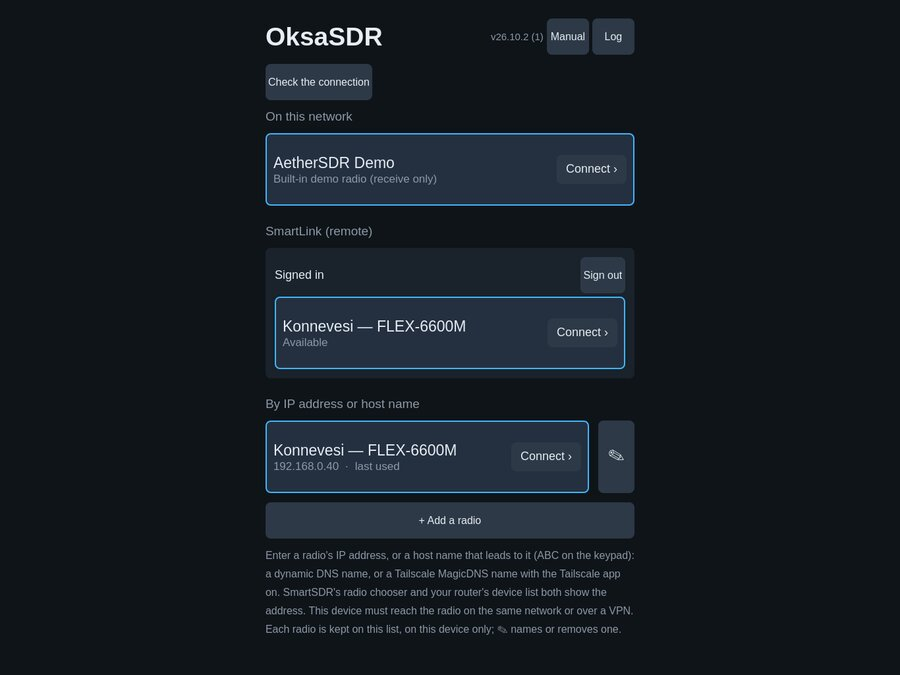
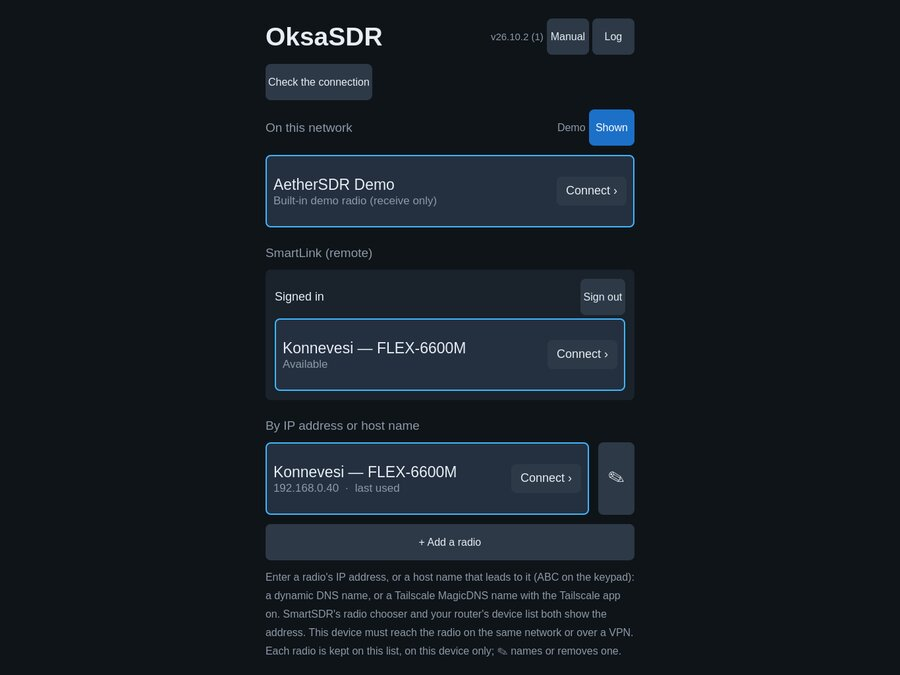
mobile: hiding the demo radio on the Connect page (56)
Demo [Shown / Hidden] on the "On this network" line hides the built-in
demo radio, remembered (MobileShowDemoRadio, Ian Gilchrist VK1HF's key,
shown by default); the heading says "Searching this network…" when only
the hidden demo is listed and wraps rather than cut on the narrowest.
Tapped Shown -> Hidden -> Shown and rendered at 440x956, 360x800 at
135 % and 1366x1024.

Notes: the SmartLink line names it (3990 characters; one older PLEASE TRY line out)
Manual: the Connect page's demo sentence, connect.jpg
Roadmap: 56 numbered after its pre-analysis, in build 164
Screenshots: connect.jpg
iOS: changed
Android: changed

Claude-Session: https://claude.ai/code/session_01KANojkzU64KoozGDbNDzRK

Changed region(s): [[0.28, 0.1556, 0.7156, 0.9956]]

diff --git a/mobile/qml/ConnectPage.qml b/mobile/qml/ConnectPage.qml
@@ -119,10 +119,32 @@ Page {
             }
 
             // ---- This network ----
-            Label {
-                text: Engine.radios.count > 0 ? qsTr("On this network") : qsTr("Searching this network…")
-                color: Theme.textDim
-                font.pixelSize: Theme.px(17)
+            // The demo radio's switch on the heading's line (Ian Gilchrist
+            // VK1HF), so hiding it adds no row.
+            RowLayout {
+                Layout.fillWidth: true
+                Label {
+                    text: Engine.lanRadioCount > 0 || (Engine.showDemoRadio && Engine.radios.count > 0)
+                          ? qsTr("On this network") : qsTr("Searching this network…")
+                    color: Theme.textDim
+                    font.pixelSize: Theme.px(17)
+                    wrapMode: Text.Wrap
+                    Layout.fillWidth: true
+                }
+                Label {
+                    text: qsTr("Demo")
+                    color: Theme.textDim
+                    font.pixelSize: Theme.px(14)
+                }
+                AppButton {
+                    objectName: "demoRadioShown"
+                    text: Engine.showDemoRadio ? qsTr("Shown") : qsTr("Hidden")
+                    checked: Engine.showDemoRadio
+                    leftPadding: 10
+                    rightPadding: 10
+                    focusPolicy: Qt.NoFocus
+                    onClicked: Engine.showDemoRadio = !Engine.showDemoRadio
+                }
             }
             Repeater {
                 model: Engine.radios
@@ -135,6 +157,7 @@ Page {
                     required property string version
                     required property string transport
                     required property bool inUse
+                    visible: transport !== "sim" || Engine.showDemoRadio
                     title: (nickname.length > 0 ? nickname + " — " : "") + (model.length > 0 ? model : name)
                     subtitle: transport === "sim"
                               ? qsTr("Built-in demo radio (receive only)")

diff --git a/mobile/src/MobileEngine.h b/mobile/src/MobileEngine.h
@@ -239,6 +239,10 @@ class MobileEngine : public QObject {
     // Big buttons (roadmap 55): the operating page covered by a few large
     // controls (tune down / up by the step, the step, PTT); this session only.
     Q_PROPERTY(bool bigButtons READ bigButtons WRITE setBigButtons NOTIFY bigButtonsChanged)
+    // The built-in demo radio on the Connect page (Ian Gilchrist VK1HF):
+    // shown unless hidden; and the radios on this network besides it.
+    Q_PROPERTY(bool showDemoRadio READ showDemoRadio WRITE setShowDemoRadio NOTIFY showDemoRadioChanged)
+    Q_PROPERTY(int lanRadioCount READ lanRadioCount NOTIFY lanRadiosChanged)
     // The last MIDI message, e.g. "CC 100 = 65" (its own signal: a knob
     // turning sends tens a second).
     Q_PROPERTY(QString midiActivity READ midiActivity NOTIFY midiActivityChanged)
@@ -1398,6 +1402,9 @@ public:
     QString midiActivity() const { return m_midiActivity; }
     bool bigButtons() const { return m_bigButtons; }
     void setBigButtons(bool on);
+    bool showDemoRadio() const;
+    void setShowDemoRadio(bool on);
+    int lanRadioCount() const;
     // Radio Setup › MIDI lists the ports again while it is shown.
     Q_INVOKABLE void midiRefresh();
     Q_INVOKABLE void midiOpen(const QString& port);
@@ -1891,6 +1898,8 @@ signals:
     void agcAutoChanged();
     void midiChanged();
     void bigButtonsChanged();
+    void showDemoRadioChanged();
+    void lanRadiosChanged();
     void midiActivityChanged();
     void txFilterChanged();
     void eqChanged();

diff --git a/mobile/src/MobileEngine.cpp b/mobile/src/MobileEngine.cpp
@@ -1226,6 +1226,7 @@ MobileEngine::MobileEngine(QObject* parent)
         AppSettings::instance().setValue(QStringLiteral("AudioCompression"), QStringLiteral("Auto"));
         AppSettings::instance().save();
     }
+    connect(&m_radios, &RadioListModel::countChanged, this, &MobileEngine::lanRadiosChanged);
     wireSmartLink();
     wireCw();
     if (sideKeysAvailable()) {
@@ -9038,6 +9039,33 @@ void MobileEngine::setAfGain(double gain)
 bool MobileEngine::muted() const
 {
     return m_slice && m_slice->audioMute();
+}
+
+bool MobileEngine::showDemoRadio() const
+{
+    return AppSettings::instance().value(QStringLiteral("MobileShowDemoRadio"), QStringLiteral("True")).toString()
+        == QLatin1String("True");
+}
+
+void MobileEngine::setShowDemoRadio(bool on)
+{
+    if (on != showDemoRadio()) {
+        AppSettings::instance().setValue(QStringLiteral("MobileShowDemoRadio"), on ? QStringLiteral("True") : QStringLiteral("False"));
+        AppSettings::instance().save();
+        qCInfo(lcMobile) << "demo radio" << (on ? "shown" : "hidden");
+        emit showDemoRadioChanged();
+    }
+}
+
+int MobileEngine::lanRadioCount() const
+{
+    int n = 0;
+    for (int row = 0; row < m_radios.rowCount(); ++row) {
+        if (m_radios.radioAt(row)->transport != QLatin1String("sim")) {
+            ++n;
+        }
+    }
+    return n;
 }
 
 void MobileEngine::setBigButtons(bool on)

diff --git a/mobile/ROADMAP.md b/mobile/ROADMAP.md
@@ -5,7 +5,7 @@ queued, waiting on someone, or still to verify follows.
 
 ## Next build
 
-Build 164 / beta 77, in progress (the user, 2026-11-10: "Tehdään 52", then "Ctr2 midi tuki seuraavaan buildiin myös"): **52** the SmartLink sign-in kept through network dropouts, **54** MIDI controllers (iOS; Android a later step), **55** Big buttons ("Otetaan mukaan"). '**55**: BigButtonsView.qml over the operating page (not a popup, so the page keeps the keyboard: Space, a Bluetooth PTT button and the arrows work there), from View › Big buttons and the ⋯ menu (Engine.bigButtons, this session): Exit (held; a tap says so), the mode, the frequency (fitted), the S meter as a bar with S units, − and + (tuneBySteps, auto-repeat 400 / 150 ms, a haptic step), Step (the next one, after the largest the smallest), the app's PttButton across the bottom (about 45 % of the rest; its font with the height). Portrait: − + side by side; landscape: − at the left, + at the right. On the FLEX by the user's path: + twice 4.5854 -> 4.587, − held 1.2 s six steps, Step 1000 -> 1 Hz (put back), Space reached PTT (refused in DIGU), Exit tapped (the hint) and held (out), the keyboard on the page throughout; focussweep over it: 7 controls, none kept the keyboard. Rendered at 440x956, 956x440, 360x800, 375x667, 1366x1024 and 1024x1366 (no empty space: PTT takes the rest in landscape). Manual: Big buttons under the main screen, big-buttons.jpg, tab-view.jpg. ''**54**: Radio Setup › MIDI (a tenth tab: 5 + 5, 10 in a row from 840 px, 3 + 3 + 3 and MIDI across on the narrowest so "Phone/CW" stays whole): the controllers this device sees (ALSA's Midi Through left out), Pair a Bluetooth MIDI controller… (iOS CABTMIDICentralViewController in ios/MidiPairing.mm, not on a Mac: Audio MIDI Setup; NSBluetoothAlwaysUsageDescription), Last message, Connect to it by itself, Transmit from the controller (off, asks first), Import a map… (MidiSettings::importProfile: SmartSDR .map or AetherSDR .xml, what has no function named), Learn / × / Clear all. MobileEngineMidi.cpp registers the app's 48 functions under the desktop's ids (the .map table's: freq, tunestep, bands, modes, nr, mainmute as the app's mute, ptt, the paddles...); the VFO knob tunes by the step from its own target while it turns (the desktop's 250 ms); TX functions only with Transmit on, ended when the port goes (watched every 4 s: a Bluetooth controller switched off stays open but leaves the list). Tested on this PC with mobile/tools/ctr2-mock.cpp (an ALSA virtual port sending the CTR2's messages: CC 100 = 64 ± speed, notes 1-6, long 11-16) against the FLEX: the user's path (Radio Setup › MIDI, tap the port, Learn VFO knob, three detents: 4.5854 -> 4.588; Step larger at the top step stays, Step smaller 1000 -> 500 Hz, put back; MOX with Transmit off refused with a notice), a CTR2-style .map imported (11 functions; openft8 and the LEDs named), and live at 28.500 USB 1 W without audio: Transmit allowed through the question, PTT held on button 6, the stand-in killed: "PTT released: MIDI controller gone" (peak 0.0 W); in DIGU the app's own rule refused the PTT. Rendered at 440x956, 360x800, 390x844, 1366x1024 and 1024x1366; manual setup-midi.jpg (update-manual-screenshots.sh starts the stand-in). To test on devices: pairing and the CTR2 itself (Hanno), USB MIDI on an iPad. ''**52**: the SmartLink sign-in kept through network dropouts. SmartLinkClient tells a passing failure (no reply, a timeout, 408, 429, 5xx: lastAuthFailureTransient) from a refusal, and drops a login or refresh answer that comes after logout (a generation counter); the app keeps the sign-in on a passing failure ("SmartLink server not reachable. Retrying…"), tries again after 5 s doubling to 60 s, at once when the network or the app comes back, and when the server drops under a kept sign-in; a dropped remote session keeps its own 5 s retry; Android's secure store writes and removes with commit(). Tested on this PC: 45 s without a network (unshare -rn): kept, tries at 5, 10, 20 and 40 s, the stored sign-in unchanged; with the network it signs in from it; --smartlink-signout-test (Sign out while the refresh is under way): still signed out 10 s later (the kept sign-in put back from a copy afterwards). Manual: SmartLink paragraph. To test on a phone: airplane mode for a minute, and a sign-out then closing the app at once (Android).
+Build 164 / beta 77, in progress (the user, 2026-11-10: "Tehdään 52", then "Ctr2 midi tuki seuraavaan buildiin myös"): **52** the SmartLink sign-in kept through network dropouts, **54** MIDI controllers (iOS; Android a later step), **55** Big buttons ("Otetaan mukaan"), **56** hiding the demo radio. '**55**: BigButtonsView.qml over the operating page (not a popup, so the page keeps the keyboard: Space, a Bluetooth PTT button and the arrows work there), from View › Big buttons and the ⋯ menu (Engine.bigButtons, this session): Exit (held; a tap says so), the mode, the frequency (fitted), the S meter as a bar with S units, − and + (tuneBySteps, auto-repeat 400 / 150 ms, a haptic step), Step (the next one, after the largest the smallest), the app's PttButton across the bottom (about 45 % of the rest; its font with the height). Portrait: − + side by side; landscape: − at the left, + at the right. On the FLEX by the user's path: + twice 4.5854 -> 4.587, − held 1.2 s six steps, Step 1000 -> 1 Hz (put back), Space reached PTT (refused in DIGU), Exit tapped (the hint) and held (out), the keyboard on the page throughout; focussweep over it: 7 controls, none kept the keyboard. Rendered at 440x956, 956x440, 360x800, 375x667, 1366x1024 and 1024x1366 (no empty space: PTT takes the rest in landscape). Manual: Big buttons under the main screen, big-buttons.jpg, tab-view.jpg. ''**54**: Radio Setup › MIDI (a tenth tab: 5 + 5, 10 in a row from 840 px, 3 + 3 + 3 and MIDI across on the narrowest so "Phone/CW" stays whole): the controllers this device sees (ALSA's Midi Through left out), Pair a Bluetooth MIDI controller… (iOS CABTMIDICentralViewController in ios/MidiPairing.mm, not on a Mac: Audio MIDI Setup; NSBluetoothAlwaysUsageDescription), Last message, Connect to it by itself, Transmit from the controller (off, asks first), Import a map… (MidiSettings::importProfile: SmartSDR .map or AetherSDR .xml, what has no function named), Learn / × / Clear all. MobileEngineMidi.cpp registers the app's 48 functions under the desktop's ids (the .map table's: freq, tunestep, bands, modes, nr, mainmute as the app's mute, ptt, the paddles...); the VFO knob tunes by the step from its own target while it turns (the desktop's 250 ms); TX functions only with Transmit on, ended when the port goes (watched every 4 s: a Bluetooth controller switched off stays open but leaves the list). Tested on this PC with mobile/tools/ctr2-mock.cpp (an ALSA virtual port sending the CTR2's messages: CC 100 = 64 ± speed, notes 1-6, long 11-16) against the FLEX: the user's path (Radio Setup › MIDI, tap the port, Learn VFO knob, three detents: 4.5854 -> 4.588; Step larger at the top step stays, Step smaller 1000 -> 500 Hz, put back; MOX with Transmit off refused with a notice), a CTR2-style .map imported (11 functions; openft8 and the LEDs named), and live at 28.500 USB 1 W without audio: Transmit allowed through the question, PTT held on button 6, the stand-in killed: "PTT released: MIDI controller gone" (peak 0.0 W); in DIGU the app's own rule refused the PTT. Rendered at 440x956, 360x800, 390x844, 1366x1024 and 1024x1366; manual setup-midi.jpg (update-manual-screenshots.sh starts the stand-in). To test on devices: pairing and the CTR2 itself (Hanno), USB MIDI on an iPad. ''**52**: the SmartLink sign-in kept through network dropouts. SmartLinkClient tells a passing failure (no reply, a timeout, 408, 429, 5xx: lastAuthFailureTransient) from a refusal, and drops a login or refresh answer that comes after logout (a generation counter); the app keeps the sign-in on a passing failure ("SmartLink server not reachable. Retrying…"), tries again after 5 s doubling to 60 s, at once when the network or the app comes back, and when the server drops under a kept sign-in; a dropped remote session keeps its own 5 s retry; Android's secure store writes and removes with commit(). Tested on this PC: 45 s without a network (unshare -rn): kept, tries at 5, 10, 20 and 40 s, the stored sign-in unchanged; with the network it signs in from it; --smartlink-signout-test (Sign out while the refresh is under way): still signed out 10 s later (the kept sign-in put back from a copy afterwards). Manual: SmartLink paragraph. To test on a phone: airplane mode for a minute, and a sign-out then closing the app at once (Android).
 
 Build 163 / beta 76, in progress (the user, 2026-11-09: "10 ja 25", then for 51 and 30 "Otetaan"; 2026-11-10 "Lisätään ehdottomasi" for 53's first part and Ian's Connect page): **10 (a)** the classic Hound mode, **51** the FT8 / FT4 contest and DXpedition messages decoded, **25** closed (every part shipped in builds 158-160), **30** verified on the user's devices in this build's tests, **53** (first part) the radio's license features in the log, the Connect page at a large text size. '
 '**51** our ft8_lib copy decodes 0.1 DXpedition, 0.3 / 0.4 Field Day, 3 RTTY Roundup and 5 EU VHF after WSJT-X 2.7's unpack77 (message length 56), Ft8Engine::parse reads "TU;" and the combined form (rr73To), a hashed call not known here (<...>) is empty (no answer to "...", no PSK Reporter spot), and PSK Reporter skips the Fox's 10-bit hashed call; --ft8-test selftest packs each type bit by bit (12 of 12), --ft8-wav decoded WSJT-X's 181201_180245.wav (the 2018 FT8 Roundup) with six Roundup exchanges that never showed before (e.g. KV4ZY NX8G 539 OH, N9LF WV4P R 529 TN). '
@@ -119,9 +119,10 @@ build. The sections below hold the details.
 53. **Fixes:** The voice keyer on the radio's DVK without SmartSDR+ (Ian Gilchrist VK1HF: his radios used the radio's DVK instead of the app's clips, no SmartSDR+ licence). *Pre-analysis 2026-11-10*: radioFeatureLicensed() takes a feature the radio has not reported as licensed ("older firmware never says", mobile/src/MobileEngine.cpp:3039-3050), and dvkOnRadio() then picks the radio's DVK until it refuses. To learn first what his AU-510 / FLEX-8400 report: the app does not log the licence features today (MobileEngine.cpp logs only SmartLink's licensed clients), so a log of his could not tell (found 2026-11-10 from his logs); each feature the radio reports goes to the log (name, enabled, reason), then ask him for a log; then: the radio's DVK only once the radio says the feature is on, or a choice (his build: a setting, the app's clips by default). Size: small.
 54. **Radio:** Bluetooth MIDI controllers as a VFO knob and buttons (*in build 164, in progress*; iOS, Android a later step): Lynovation's CTR2-MIDI / CTR2-Dial (Bluetooth LE and USB MIDI; used with SmartSDR for iOS / macOS), Hanno Vogels DK3HV, mail 2026-11-09; also Michael Walker, mail 2026-11-10 ("integrate the CRT series of controllers", with his idea of a screen for driving); numbered by the user 2026-11-10 ("Tee 1-4"). *Pre-analysis 2026-11-09* (Lynovation's CTR2-MIDI manuals v3.00.01, our engine): (0) **No app change may be needed at home:** CTR2-MIDI firmware 2.00+ has a Flex mode that joins the radio over WiFi as a non-GUI client bound to the GUI client ("works with any Flex GUI client"; same LAN as the radio, no SmartLink); the app registers as a GUI client with an id ("client gui <id>"), so it should bind: Hanno to try it first. (1) **MIDI mode in the app** (needed over SmartLink or VPN): the engine already has the desktop's MidiControlManager (RtMidi 6.0, Learn, the relative VFO decoder, CW gates) and MidiSettings, built into the iOS engine with CoreMIDI; Android builds RtMidi as a dummy (RtMidi's AMIDI backend needs API 29, our minimum is 28). The CTR2 sends the knob as CC 100 "WheelA" (64 plus a speed offset), buttons as notes 1-6 and long presses 11-16; Lynovation ships an AetherSDR map for the desktop's import (their file, not bundled). To build: the app's own function list (VFO, step, band, mode, filter, MOX, CW paddles into the app's keyer), a MIDI page in Radio Setup (device, Learn, the map import), Bluetooth pairing (iOS CABTMIDICentralViewController and a Bluetooth permission text; USB MIDI on an iPad needs none; on a Mac Audio MIDI Setup pairs; Android a BLE scan, MidiManager.openBluetoothDevice and BLUETOOTH_SCAN), the privacy page. TX from MIDI (PTT, CW) off by default and ended when the device goes. Upstream open: #4402 (0/127 encoders), #3927 (VFO sensitivity), #743 (VFO step by notes), #6684, none blocking. No terms (MIDI is a standard). Test: no MIDI device here (a USB MIDI keyboard would do on an iPad or Android); Hanno has the CTR2; an iOS network MIDI session from this PC as a stand-in. Size: medium for iOS (one build), Android a second step. Hanno tried Flex mode 2026-11-10: it did not work in his network (a Fritz 7580, the radio on LAN, the CTR2 on WiFi), and WiFi never reaches a remote station; he uses the CTR2 over Bluetooth with another iPad app, very stable. Verdict: MIDI mode, iOS first.
 55. **Display:** Big buttons, a screen of a few large controls for operating in the car, with gloves or at a glance (*in build 164, in progress*; Michael Walker, mail 2026-11-10: "a mobile screen that only had a few buttons on it like up and down at the step rate so you could tap them easily without having to look at the phone", PTT about a third of an iPhone's screen at the bottom; the user, 2026-11-10: "voidaan miettiä"). *Pre-analysis 2026-11-10*: one QML page over the operating screen, no new engine calls: the frequency and mode large, the S meter as a bar, **−** and **+** filling the middle (tuneBySteps by the step shown on them, held to repeat, a haptic tap each step), the step changed by a tap on it (stepList), PTT across the bottom third (setPtt, hold as the app's PTT; the app's rules: voice modes, the transmit lock), the screen kept awake; out by a long press on a small Exit, so a stray tap does not leave it. In View › Big buttons and the ⋯ menu. Portrait and landscape, phones and tablets. With the Bluetooth PTT (41) and the CTR2's knob (54) the eyes can stay off the screen. Terms: App Store guideline 1.4.5 ("Apps should not urge customers to ... use their devices in a way that risks physical harm"), so it is named and described as big buttons (the car mounted and used as local law allows, gloves, the field, low vision), never as for use while driving; CarPlay and Android Auto take only their own app categories (an Apple entitlement; ham radio is not one), so it is the phone's own screen. Size: small-medium, one build; tested by the user's path on every form factor (render), hold-to-repeat tuning and PTT on the FLEX (USB, no audio).
+56. **Usability:** Hiding the demo radio on the Connect page (Ian Gilchrist VK1HF's build b5, mail 2026-11-10; the user, 2026-11-10: "Demoradion piilotus Connect-sivulta"; *in build 164, in progress*). *Pre-analysis 2026-11-10*: a switch on the "On this network" line as his (no extra row), Demo [Shown / Hidden] as the View tab's switches, remembered in his key (MobileShowDemoRadio, shown by default); the heading says "Searching this network…" when only the hidden demo is listed (lanRadioCount), and wraps rather than cut on the narrowest at 135 %. --demo and the demo's own connect are not touched. No terms, nothing on the radio. Size: small. Done: tapped Shown -> Hidden -> Shown (logged, remembered) and rendered at 440x956, 360x800 at 135 % and 1366x1024; manual connect.jpg and the Connect paragraph.
 
 Ideas to analyse before they get a number (2026-11-09: a number only after a pre-analysis):
-- From Ian Gilchrist VK1HF's own build (mail 2026-11-09, his code GPLv3, offered as a branch): two SmartLink accounts with favourite radios that connect in one tap (a sign-in kept per account, the account's email filled in when one is needed); Sign out as one tap with a confirmation (our two-tap "Sign out?" is easy to miss on a phone); the CW repeat's pause timed from the radio unkeying (cwx sent= at the batch's end, then TX off for 800 ms) rather than from the queue emptying; an RX jitter buffer over SmartLink (Off / 100 / 200 / 400 ms, upstream discussion #6537). His build b5 (mail 2026-11-10): the Connect page out of shape with Android's font size above the default ("OksaSDR" and the version overlapping, a radio card's email line through its border; fixed here in build 163, see there; his own fix also let the system size only shrink the phone layout's text and gave View › Text size 90 %, not taken); a Demo radio on / off button on the "On this network" line that hides the demo entry (MobileShowDemoRadio, on by default).
+- From Ian Gilchrist VK1HF's own build (mail 2026-11-09, his code GPLv3, offered as a branch): two SmartLink accounts with favourite radios that connect in one tap (a sign-in kept per account, the account's email filled in when one is needed); Sign out as one tap with a confirmation (our two-tap "Sign out?" is easy to miss on a phone); the CW repeat's pause timed from the radio unkeying (cwx sent= at the batch's end, then TX off for 800 ms) rather than from the queue emptying; an RX jitter buffer over SmartLink (Off / 100 / 200 / 400 ms, upstream discussion #6537). His build b5 (mail 2026-11-10): the Connect page out of shape with Android's font size above the default ("OksaSDR" and the version overlapping, a radio card's email line through its border; fixed here in build 163, see there; his own fix also let the system size only shrink the phone layout's text and gave View › Text size 90 %, not taken); hiding the demo radio: now 56.
 - A KiwiSDR receiver as a receive antenna (Wayne Roth WA2N, mail 2026-11-08/09: "Scrape KiwiSDR as antenna from AetherSDR? Can Claude do that?"). Numbered 50 overnight without a pre-analysis, made an idea again by the user 2026-11-10 ("Kiwisdr numeroimattomaksi"); 50 is not reused. *Pre-analysis 2026-11-09*: possible but large. The engine code is in our tree (src/core KiwiSdrClient, KiwiSdrProtocol, KiwiSdrManager, KiwiPublicDirectory, KiwiSdrCredentialStore), but the desktop's glue is big (MainWindow_KiwiSdr.cpp 2427 lines, KiwiSdrApplet 356, KiwiPublicReceiverPicker 279) and the app would need its own: Kiwi receivers in the RX antenna chooser, a slice whose audio and waterfall come from the Kiwi (12 kHz audio, its own waterfall beside the radio's pan), the band and frequency following the slice. The public receiver list comes only from upstream's mirror (KiwiPublicDirectory kDirectoryUrl https://cdn.aethersdr.com/kiwi.json, made at the KiwiSDR maintainer's request, no fallback to kiwisdr.com), and each operator's ext_api policy applies. Upstream open: RFC #3613, #4993 (buzzing audio on selecting a Kiwi since 26.8.2), #5450 (the directory mirror), #7072, #7073. Verdict: not now; worth a number once upstream's audio issue is fixed and the mirror's terms for other clients are clear.
 
 ## Planned: the Digi tab, keyboard modes as one (asked 2026-11-02)

diff --git a/mobile/android/RELEASE_NOTES.md b/mobile/android/RELEASE_NOTES.md
@@ -3,6 +3,7 @@
 ### New in beta 77
 - **Big buttons** (thanks Michael Walker): **Controls › View › Big buttons** (or **⋯** → *Big buttons*) covers the main screen with a few large controls for the car (the phone mounted, used as the law allows), gloves or a glance: the frequency and mode large, the S meter as a bar, **−** and **+** that tune one step a tap and repeat while held, **Step** (a tap takes the next one) and **PTT** across the bottom, working as the main screen's. A Bluetooth PTT button or a keyboard's Space keys there too, the arrows tune. Hold **Exit** to leave.
 - **SmartLink keeps you signed in through a network dropout** (thanks Ian Gilchrist VK1HF): a phone losing the network (a tunnel, airplane mode, a weak signal) lost its SmartLink sign-in and asked for the password again. Now only SmartLink refusing the sign-in asks for it: without a network, or while SmartLink's server does not answer, the sign-in stays, the Connect page says *SmartLink server not reachable. Retrying…*, and the app tries again by itself (after 5 s, then less often up to every minute, and at once when the network or the app comes back). A **Sign out** now also stays signed out when the app is closed right after it.
+- **Hiding the demo radio** (thanks Ian Gilchrist VK1HF): **Demo** on the Connect page's *On this network* line hides the built-in demo radio (*Hidden*) or shows it again (*Shown*), remembered.
 - **MIDI controllers** (Lynovation's CTR2-MIDI and others, as a VFO knob and buttons) came to the iPhone, iPad and Mac in this build; on Android, Radio Setup › MIDI says they come later.
 
 ### Still new from beta 76

diff --git a/docs/mobile/MANUAL.md b/docs/mobile/MANUAL.md
@@ -437,7 +437,9 @@ The first page lists the ways to reach a radio:
 - **On this network** — FlexRadios found on the local network (on an
   iPhone or iPad, connect by IP address for now). Tap a radio's card, or its
   **Connect ›**, to connect. *AetherSDR Demo* is a built-in receive-only demo radio for trying
-  the app without a radio.
+  the app without a radio; **Demo** on the heading's line hides it
+  (*Hidden*) or shows it again (*Shown*), remembered (thanks Ian Gilchrist
+  VK1HF).
 - **SmartLink (remote)** — sign in with your FlexRadio SmartLink account
   to use your radio from anywhere. The sign-in is kept on this device only
   (the iOS Keychain; on Android, encrypted under a key in the Android
